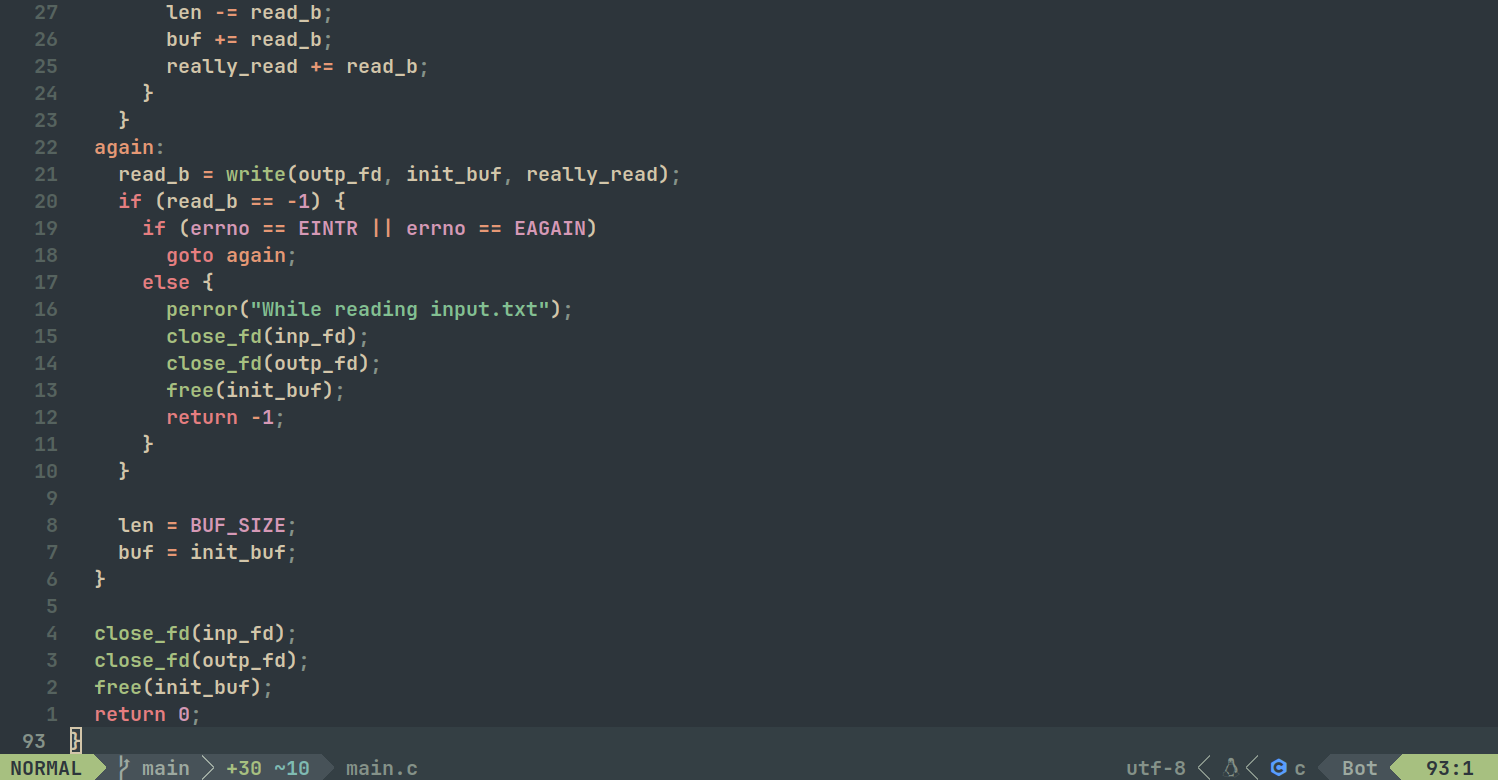
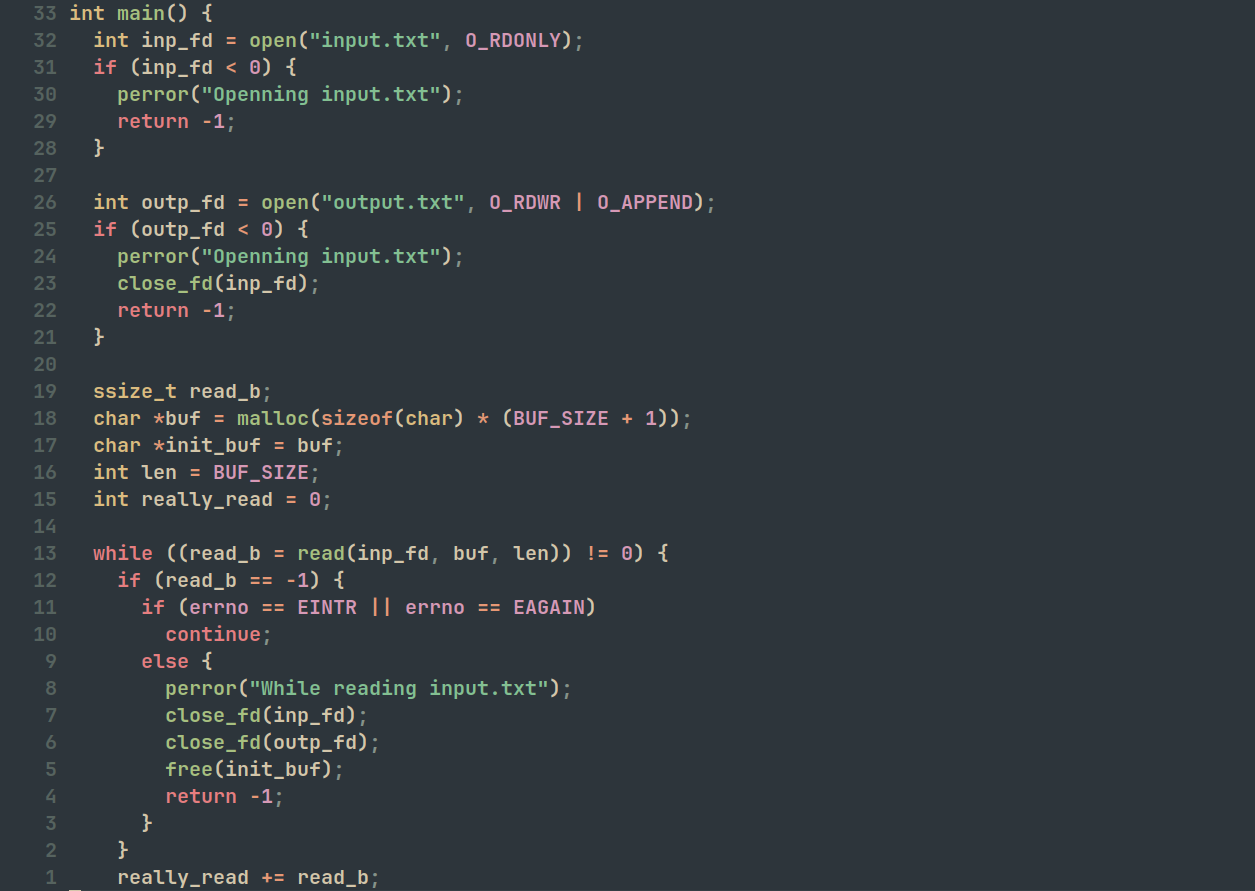
Added handling of a case, when read returned less than len. Fixed critical bug when size of file exceeded buf length

diff --git a/read_file/main.c b/read_file/main.c
@@ -36,21 +36,22 @@ int main() {
   int really_read = 0;
 
   while ((read_b = read(inp_fd, buf, len)) != 0) {
+    if (read_b == -1) {
+      if (errno == EINTR || errno == EAGAIN)
+        continue;
+      else {
+        perror("While reading input.txt");
+        close_fd(inp_fd);
+        close_fd(outp_fd);
+        free(init_buf);
+        return -1;
+      }
+    }
+    really_read += read_b;
+
     if (read_b < len) {
       len -= read_b;
       buf += read_b;
-      really_read += read_b;
-      if (read_b == -1) {
-        if (errno == EINTR || errno == EAGAIN)
-          continue;
-        else {
-          perror("While reading input.txt");
-          close_fd(inp_fd);
-          close_fd(outp_fd);
-          free(init_buf);
-          return -1;
-        }
-      }
       while ((len != 0) && ((read_b = read(inp_fd, buf, len)) != 0)) {
         if (read_b == -1) {
           if (errno == EINTR || errno == EAGAIN)
@@ -68,6 +69,7 @@ int main() {
         really_read += read_b;
       }
     }
+
   again:
     read_b = write(outp_fd, init_buf, really_read);
     if (read_b == -1) {
@@ -84,6 +86,7 @@ int main() {
 
     len = BUF_SIZE;
     buf = init_buf;
+    really_read = 0;
   }
 
   close_fd(inp_fd);

diff --git a/README.md b/README.md
@@ -7,12 +7,14 @@
 
 ### Пояснение к решению
 Программа сначала открывает файл ```input.txt```, проверяя, равняется ли значение, возвращённое функцией ```open()```, файловым дескриптором или значением ошибки(-1). В случае ошибки программа завершает работу.
-![начало кода](./images/code1.png)
+![Функция close_fd()](./images/code1.png)
 
 Открывая ```output.txt```, важно в случае ошибки закрыть уже открытый ранее файл ```input.txt```, для этого используется функция ```close_fd()```, wrapper для ```close```.
-![начало кода](./images/code_end.png)
+![начало кода](./images/code_begining.png)
 
-Далее в цикле считываем в цикле определённое число бит и записываем их в другой файл. Если ошибка не фатальна и позволяет продолжать работу(```EINTR``` --- процесс чтения/записи был прерван, но не произошло никаких критичных ошибок, или ```EAGAIN``` --- возникает часто из-за нехватки ресурсов, повторная попытка может помочь исправить проблему).
-![скриншот кода](./images/code_begining.png)
+Далее в цикле считываем определённое число бит и записываем их в другой файл. Если ошибка не фатальна и позволяет продолжать работу(```EINTR``` --- процесс чтения/записи был прерван, но не произошло никаких критичных ошибок, или ```EAGAIN``` --- возникает часто из-за нехватки ресурсов, повторная попытка может помочь исправить проблему).
+![конец кода](./images/code_end.png)
+
+Если в ходе считывания ```read``` вернула значение меньше, чем значение ```len```, то пытаемся повторно читать из файла. Если конец файла действительно достигнут раньше и это не какая-то ошибка, переходим к этапу записи.
 
 Если во время чтения/записи файла возникает критичная ошибка, оба файла закрываются и программа завершает работу.
